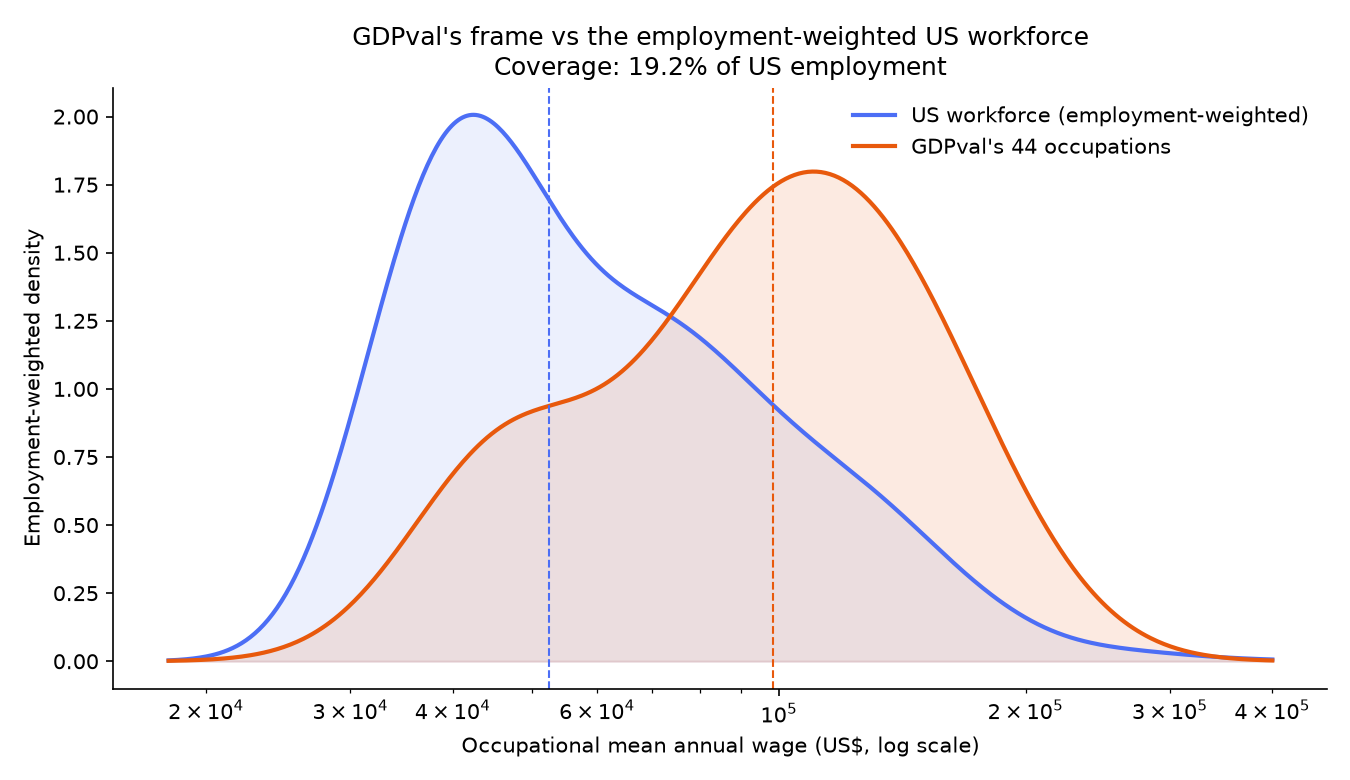
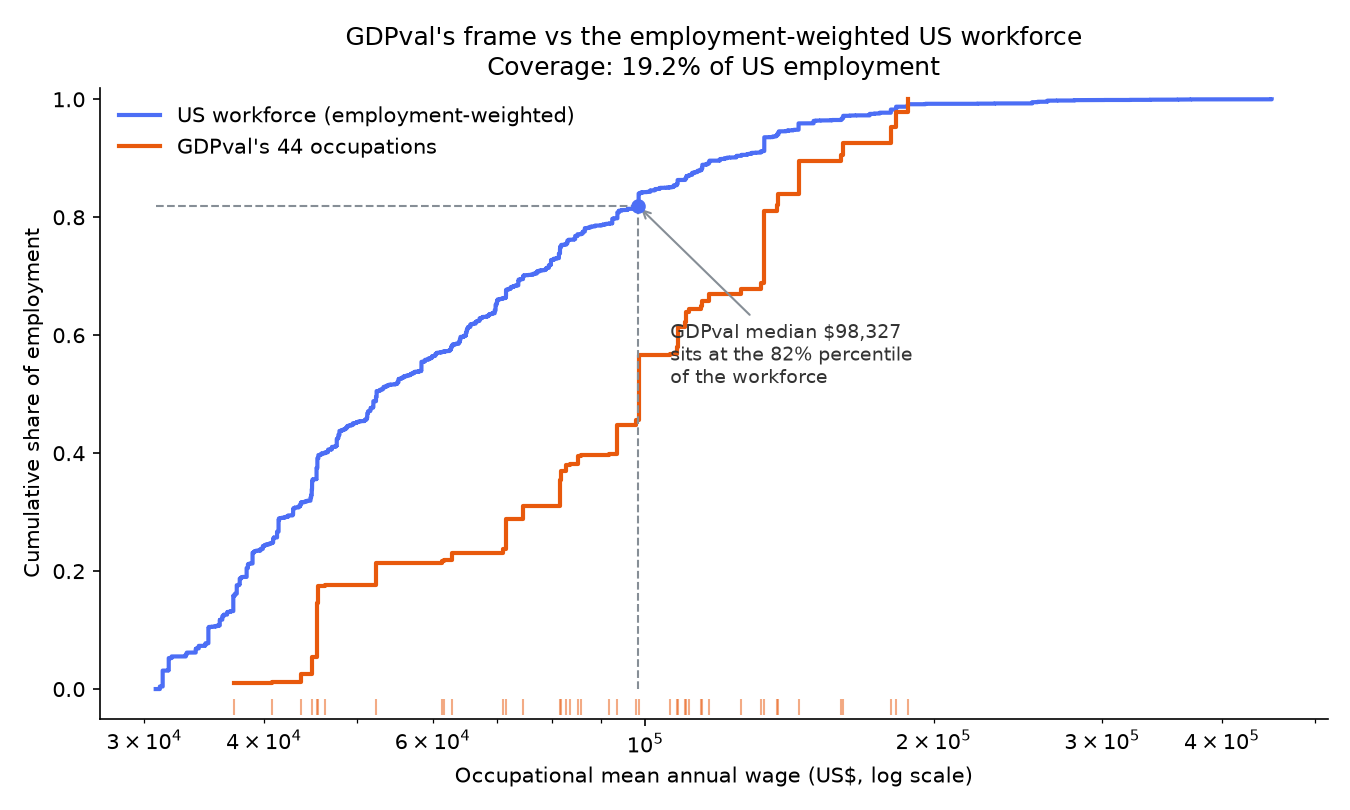
Replace density plots with employment-weighted ECDFs

diff --git a/src/tier1_coverage.py b/src/tier1_coverage.py
@@ -222,38 +222,56 @@ def main() -> int:
     return 0
 
 
+def weighted_ecdf(values, weights):
+    """Employment-weighted empirical CDF: sorted values and cumulative share.
+    Returns (x, y) suitable for a steps-post plot (no smoothing over small n)."""
+    values = np.asarray(values, float)
+    weights = np.asarray(weights, float)
+    ok = np.isfinite(values) & np.isfinite(weights) & (weights > 0)
+    values, weights = values[ok], weights[ok]
+    order = np.argsort(values)
+    x = values[order]
+    y = np.cumsum(weights[order]) / np.sum(weights)
+    return x, y
+
+
 def make_figure(w, we, gw, gwe, cov, base_median, gd_median):
     import matplotlib
     matplotlib.use("Agg")
     import matplotlib.pyplot as plt
 
-    def wkde(values, weights, grid):
-        from scipy.stats import gaussian_kde
-        values = np.asarray(values, float)
-        weights = np.asarray(weights, float)
-        ok = np.isfinite(values) & np.isfinite(weights) & (weights > 0)
-        k = gaussian_kde(np.log10(values[ok]), weights=weights[ok])
-        return k(np.log10(grid))
+    # Employment-weighted empirical CDFs. The GDPval side is 44 occupation-means
+    # with heavy-tailed weights, so a step ECDF (not a smoothed density) is used:
+    # it shows the true step structure and reads the percentile positions directly.
+    xw, yw = weighted_ecdf(w, we)
+    xg, yg = weighted_ecdf(gw, gwe)
+    pct = weighted_share_below(gd_median, w, we)   # GDPval median's workforce percentile
 
-    # Grid spans to ~400k so the workforce's high tail (physicians, CEOs; A_MEAN
-    # is not top-coded) is not clipped. GDPval's 44 all sit well below the top.
-    grid = np.logspace(np.log10(18000), np.log10(400000), 500)
-    fig, ax = plt.subplots(figsize=(9, 5.2))
-    ax.plot(grid, wkde(w, we, grid), color="#4C6EF5", lw=2,
+    fig, ax = plt.subplots(figsize=(9, 5.4))
+    ax.step(xw, yw, where="post", color="#4C6EF5", lw=2,
             label="US workforce (employment-weighted)")
-    ax.fill_between(grid, wkde(w, we, grid), color="#4C6EF5", alpha=0.10)
-    ax.plot(grid, wkde(gw, gwe, grid), color="#E8590C", lw=2,
+    ax.step(xg, yg, where="post", color="#E8590C", lw=2,
             label="GDPval's 44 occupations")
-    ax.fill_between(grid, wkde(gw, gwe, grid), color="#E8590C", alpha=0.12)
-    ax.axvline(base_median, color="#4C6EF5", ls="--", lw=1)
-    ax.axvline(gd_median, color="#E8590C", ls="--", lw=1)
+    # rug of the 44 occupation-means so their small-n lumpiness is visible
+    ax.plot(gw, np.full_like(np.asarray(gw, float), -0.03), "|", color="#E8590C",
+            ms=8, alpha=0.5, clip_on=False)
+    # mark the load-bearing stat: GDPval median wage -> its percentile on the workforce
+    ax.vlines(gd_median, 0, pct, color="#868e96", ls="--", lw=1)
+    ax.hlines(pct, xw.min(), gd_median, color="#868e96", ls="--", lw=1)
+    ax.plot([gd_median], [pct], "o", color="#4C6EF5", zorder=5)
+    ax.annotate(f"GDPval median ${gd_median:,.0f}\nsits at the {pct:.0%} percentile\n"
+                f"of the workforce",
+                xy=(gd_median, pct), xytext=(gd_median * 1.08, pct - 0.30),
+                fontsize=9, color="#333",
+                arrowprops=dict(arrowstyle="->", color="#868e96"))
     ax.set_xscale("log")
+    ax.set_ylim(-0.05, 1.02)
     ax.set_xlabel("Occupational mean annual wage (US$, log scale)")
-    ax.set_ylabel("Employment-weighted density")
+    ax.set_ylabel("Cumulative share of employment")
     ax.set_title("GDPval's frame vs the employment-weighted US workforce\n"
                  f"Coverage: {cov['share_of_detailed_incl_all_other']:.1%} of US employment",
                  fontsize=12)
-    ax.legend(frameon=False)
+    ax.legend(frameon=False, loc="upper left")
     ax.spines[["top", "right"]].set_visible(False)
     fig.tight_layout()
     fig.savefig(paths.FIG_TIER1, dpi=150)

diff --git a/src/tier2_aioe.py b/src/tier2_aioe.py
@@ -28,7 +28,8 @@ from scipy.stats import mannwhitneyu
 
 import paths
 import oews
-from tier1_coverage import weighted_quantile, weighted_mean, weighted_share_below
+from tier1_coverage import (weighted_quantile, weighted_mean,
+                            weighted_share_below, weighted_ecdf)
 
 
 def build_oews_aioe(det: pd.DataFrame, bridged: pd.DataFrame) -> pd.DataFrame:
@@ -186,30 +187,35 @@ def make_figure(w, we, gw, gwe, base_med, gd_med):
     import matplotlib
     matplotlib.use("Agg")
     import matplotlib.pyplot as plt
-    from scipy.stats import gaussian_kde
 
-    def wkde(values, weights, grid):
-        values = np.asarray(values, float); weights = np.asarray(weights, float)
-        ok = np.isfinite(values) & np.isfinite(weights) & (weights > 0)
-        return gaussian_kde(values[ok], weights=weights[ok])(grid)
+    # Employment-weighted empirical CDFs (step, no smoothing): the GDPval side is
+    # 44 heavy-tailed points, so a KDE would manufacture regularity that isn't there.
+    xw, yw = weighted_ecdf(w, we)
+    xg, yg = weighted_ecdf(gw, gwe)
+    pct = weighted_share_below(gd_med, w, we)
 
-    lo = float(np.nanmin(w)); hi = float(np.nanmax(w))
-    grid = np.linspace(lo - 0.2, hi + 0.2, 400)
-    fig, ax = plt.subplots(figsize=(9, 5.2))
-    ax.plot(grid, wkde(w, we, grid), color="#4C6EF5", lw=2,
+    fig, ax = plt.subplots(figsize=(9, 5.4))
+    ax.step(xw, yw, where="post", color="#4C6EF5", lw=2,
             label="US workforce (employment-weighted)")
-    ax.fill_between(grid, wkde(w, we, grid), color="#4C6EF5", alpha=0.10)
-    ax.plot(grid, wkde(gw, gwe, grid), color="#E8590C", lw=2,
+    ax.step(xg, yg, where="post", color="#E8590C", lw=2,
             label="GDPval's 44 occupations")
-    ax.fill_between(grid, wkde(gw, gwe, grid), color="#E8590C", alpha=0.12)
-    ax.axvline(base_med, color="#4C6EF5", ls="--", lw=1)
-    ax.axvline(gd_med, color="#E8590C", ls="--", lw=1)
+    ax.plot(gw, np.full_like(np.asarray(gw, float), -0.03), "|", color="#E8590C",
+            ms=8, alpha=0.5, clip_on=False)
+    ax.vlines(gd_med, 0, pct, color="#868e96", ls="--", lw=1)
+    ax.hlines(pct, xw.min(), gd_med, color="#868e96", ls="--", lw=1)
+    ax.plot([gd_med], [pct], "o", color="#4C6EF5", zorder=5)
+    ax.annotate(f"GDPval median AIOE {gd_med:+.2f}\nsits at the {pct:.0%} percentile\n"
+                f"of the workforce",
+                xy=(gd_med, pct), xytext=(gd_med + 0.25, pct - 0.32),
+                fontsize=9, color="#333",
+                arrowprops=dict(arrowstyle="->", color="#868e96"))
+    ax.set_ylim(-0.05, 1.02)
     ax.set_xlabel("AIOE (AI Occupational Exposure), standardized")
-    ax.set_ylabel("Employment-weighted density")
+    ax.set_ylabel("Cumulative share of employment")
     ax.set_title("AIOE exposure: GDPval's frame vs the employment-weighted workforce\n"
                  "Caveat: AIOE shares O*NET construction with GDPval's digital filter "
                  "(see pre-registration sections 3-4)", fontsize=11)
-    ax.legend(frameon=False)
+    ax.legend(frameon=False, loc="upper left")
     ax.spines[["top", "right"]].set_visible(False)
     fig.tight_layout()
     fig.savefig(paths.FIG_TIER2, dpi=150)
